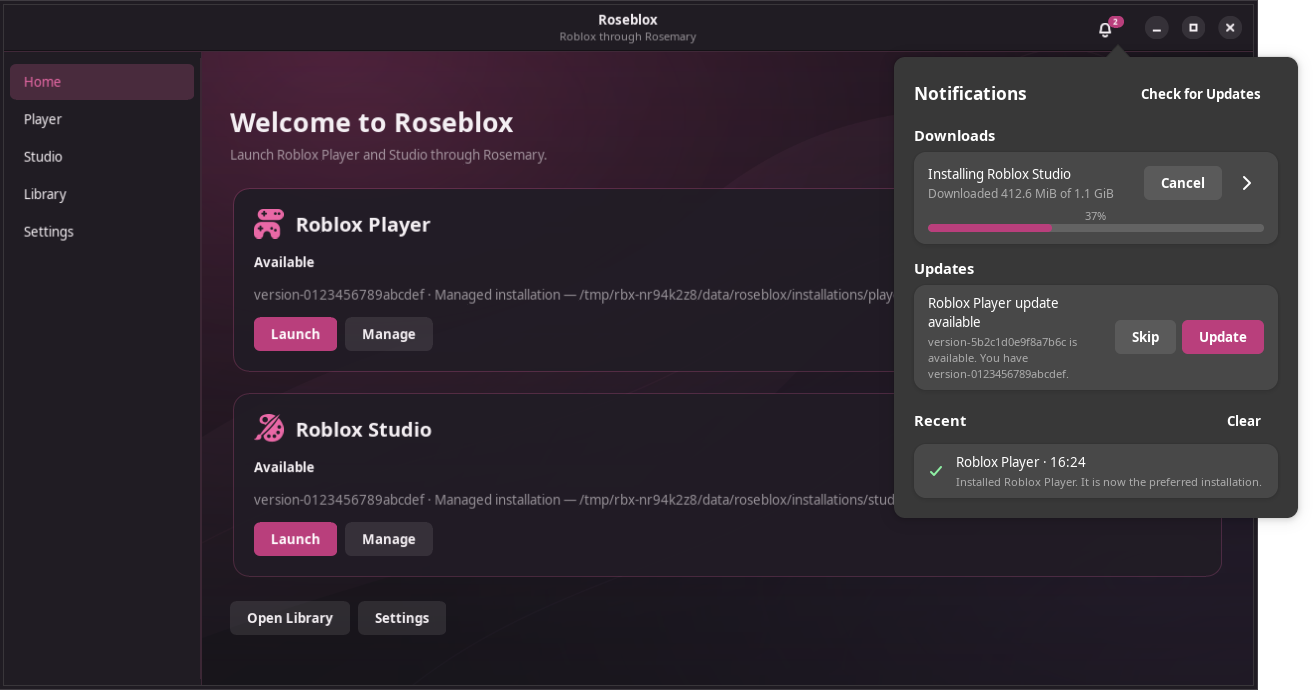
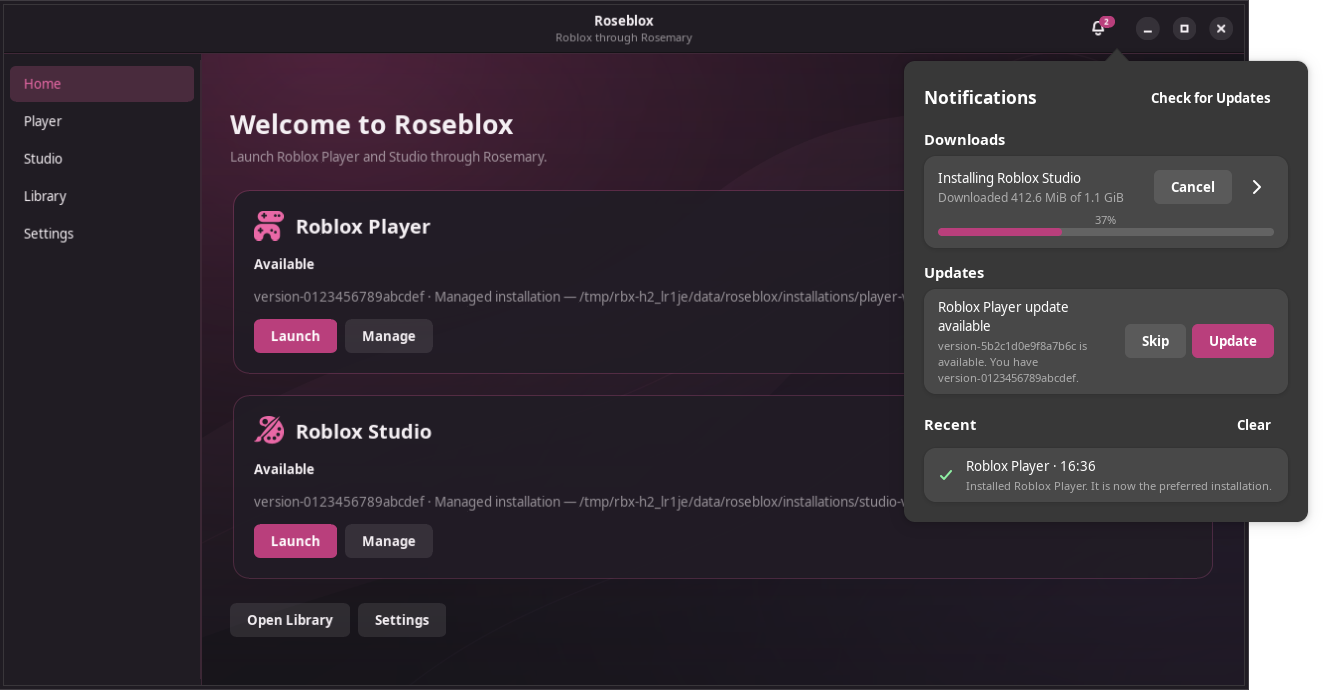
Center the notification bell in its button and the empty-state text

diff --git a/src/roseblox/pages/notification_center.py b/src/roseblox/pages/notification_center.py
@@ -48,9 +48,11 @@ class NotificationCenter(Gtk.MenuButton):
 
         icon_overlay = Gtk.Overlay()
         bell = Gtk.Image.new_from_icon_name("preferences-system-notifications-symbolic")
-        bell.set_margin_top(7)
-        bell.set_margin_end(11)
-        bell.set_margin_start(3)
+        # Equal side margins keep the bell centered in the button; the badge sits in the corner.
+        bell.set_margin_start(9)
+        bell.set_margin_end(9)
+        bell.set_margin_top(5)
+        bell.set_margin_bottom(5)
         icon_overlay.set_child(bell)
         self.badge = Gtk.Label()
         self.badge.add_css_class("notification-badge")
@@ -86,6 +88,8 @@ class NotificationCenter(Gtk.MenuButton):
         self.empty_label = Gtk.Label(label="Nothing right now. Downloads and Roblox updates show up here.")
         self.empty_label.add_css_class("dim-label")
         self.empty_label.set_wrap(True)
+        self.empty_label.set_justify(Gtk.Justification.CENTER)
+        self.empty_label.set_halign(Gtk.Align.CENTER)
         self.empty_label.set_max_width_chars(40)
         self.empty_label.set_margin_top(12)
         self.empty_label.set_margin_bottom(12)
